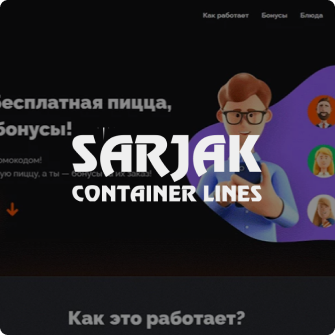
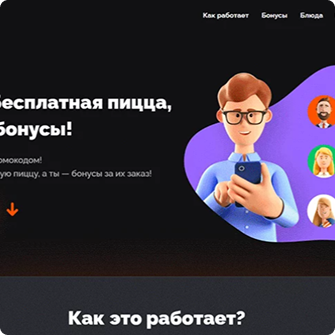
Fix round slider rotation

diff --git a/home/templates/home/home.html b/home/templates/home/home.html
@@ -223,26 +223,31 @@
             </div>
             <div class="case">
                 <img src="{% static 'images/case-example-2.png' %}" alt="">
+                <img class="logo" src="{% static 'images/case-logo-example-2.png' %}" alt="">
             </div>
             <div class="case">
                 <img src="{% static 'images/case-example-3.png' %}" alt="">
+                <img class="logo" src="{% static 'images/case-logo-example-3.png' %}" alt="">
             </div>
             <div class="case">
-                <img src="{% static 'images/case-example-1.png' %}" alt="">
+                <img class="background" src="{% static 'images/case-example-1.png' %}" alt="">
                 <img class="logo" src="{% static 'images/case-logo-example-1.png' %}" alt="">
             </div>
             <div class="case">
                 <img src="{% static 'images/case-example-2.png' %}" alt="">
+                <img class="logo" src="{% static 'images/case-logo-example-2.png' %}" alt="">
             </div>
             <div class="case">
                 <img src="{% static 'images/case-example-3.png' %}" alt="">
+                <img class="logo" src="{% static 'images/case-logo-example-3.png' %}" alt="">
             </div>
             <div class="case">
-                <img src="{% static 'images/case-example-1.png' %}" alt="">
+                <img class="background" src="{% static 'images/case-example-1.png' %}" alt="">
                 <img class="logo" src="{% static 'images/case-logo-example-1.png' %}" alt="">
             </div>
             <div class="case">
                 <img src="{% static 'images/case-example-2.png' %}" alt="">
+                <img class="logo" src="{% static 'images/case-logo-example-2.png' %}" alt="">
             </div>
         </div>
         <div class="all-cases">
@@ -744,6 +749,7 @@
 <script defer>
 document.addEventListener("DOMContentLoaded", function () {
     let rotationAngle = 0; 
+    let currentSlideIndex = 1;
 
     const mainSLider = new Swiper('.rounded-slides.swiper', {
         loop: true, 
@@ -765,11 +771,18 @@ document.addEventListener("DOMContentLoaded", function () {
         },
         on: {
             slideNextTransitionStart: function () {
-                rotationAngle -= 60; 
+                currentSlideIndex++;
+                console.log(`Остаток: ${currentSlideIndex % 6}`)
+
+                const angle = getRotationAngleNext();
+                rotationAngle -= angle; 
                 rotateImage();
             },
             slidePrevTransitionStart: function () {
-                rotationAngle += 60;
+                currentSlideIndex--;
+
+                const angle = getRotationAnglePrev();
+                rotationAngle += angle; 
                 rotateImage();
             }
         }
@@ -780,6 +793,47 @@ document.addEventListener("DOMContentLoaded", function () {
         if (image) {
             image.style.transform = `rotate(${rotationAngle}deg)`;
         }
+    }
+    function getRotationAnglePrev() {
+        const currentSlide = document.querySelector('.rect-slide.swiper-slide.swiper-slide-active');
+        const activeText = currentSlide.querySelector('.rect-slide-heading').textContent;
+        let angle = 60;
+        console.log(activeText)
+        
+        console.log(currentSlideIndex % 6)
+        if (activeText == 'Время') {
+            if (currentSlideIndex % 6 < 3) {
+                angle = 68.5;
+            } else {
+                angle = 64.5;
+            }
+        } else if (activeText == 'Помощь') {
+            angle = 56;
+        } else if (activeText == 'Услуги') {
+            angle = 57.6;
+        }
+        console.log(angle);
+        return angle;
+    }
+    function getRotationAngleNext() {
+        const currentSlide = document.querySelector('.rect-slide.swiper-slide.swiper-slide-next');
+        const activeText = currentSlide.querySelector('.rect-slide-heading').textContent;
+        let angle = 60;
+        console.log(activeText)
+        
+        if (activeText == 'Время') {
+            angle = 56;
+        } else if (activeText == 'Помощь') {
+            angle = 57.6;
+        } else if (activeText == 'Услуги') {
+            if (currentSlideIndex % 6 < 3) {
+                angle = 64.5;
+            } else {
+                angle = 68.5;
+            }
+        }
+        console.log(angle);
+        return angle;
     }
 });
 </script>

diff --git a/static/css/style.css b/static/css/style.css
@@ -291,7 +291,7 @@ header {
     display: flex;
     gap: 10px;
     align-items: center;
-
+    align-items: center;
 }
 
 .header__contacts {
@@ -685,6 +685,8 @@ footer .nav-links p {
     width: calc((100% - 20px * 3) / 4); 
     height: 335px;
     position: relative;
+
+    cursor: pointer;
 }
 .case .background {
     position: absolute; 
@@ -692,13 +694,39 @@ footer .nav-links p {
     top: 0;
     width: 100%;
     height: 100%;
+    background: rgba(45, 46, 51, 0.4);
+}
+.case::after {
+    content: "";
+    position: absolute;
+    left: 0;
+    top: 0;
+    width: 100%;
+    height: 100%;
+    background: rgba(45, 46, 51, 0.4);
+    opacity: 1;
 }
 .case .logo {
     position: absolute; 
     left: 50%;
     top: 50%;
     transform: translateX(-50%) translateY(-50%);
+    opacity: 1;
+    z-index: 5;
 }
+.case,
+.case::after, 
+.case .logo {
+    transition: all 0.4s ease;
+}
+.case:hover .logo {
+    opacity: 0;
+}
+
+.case:hover::after {
+    opacity: 0;
+}
+
 .all-cases {
     display: flex;
     align-items: center;
@@ -727,9 +755,19 @@ footer .nav-links p {
 .client-card {
     position: relative;
     border-radius: 10px;
-    height: 100px;
-    width: calc((1400px - 30px * 7) / 8);
-    background: linear-gradient(45deg, #010314 -5%, #5F32AD 69%, #00FFE7 120%);
+    height: 100px !important;
+    background: linear-gradient(
+        20deg,
+        rgba(1, 3, 20, 0.36) -5%,
+        rgba(95, 50, 173, 0.36) 69%,
+        rgba(0, 255, 231, 0.36) 110%
+    );
+    display: flex;
+    align-items: center;
+    justify-content: center;
+
+    cursor: pointer;
+    transition: all 0.4s ease !important;
 }
 .client-card::after {
     content: '';
@@ -738,10 +776,7 @@ footer .nav-links p {
     left: 0;
     right: 0;
     bottom: 0;
-    /* background: rgba(45, 46, 51, 0.4); */
     pointer-events: none;
-
-    transition: all 0.3s ease;
 }
 .client-card img {
     position: absolute; 
@@ -750,21 +785,52 @@ footer .nav-links p {
     transform: translateX(-50%) translateY(-50%);
 }
 
+.client-card.swiper-slide.swiper-slide-active, 
+.client-card.swiper-slide.swiper-slide-active + .client-card, 
+.client-card.swiper-slide.swiper-slide-active 
+    + .client-card + .client-card 
+    + .client-card + .client-card  
+    + .client-card + .client-card  
+    + .client-card + .client-card 
+    + .client-card + .client-card  
+    + .client-card + .client-card  
+    + .client-card + .client-card, 
+.client-card.swiper-slide.swiper-slide-active 
+    + .client-card + .client-card 
+    + .client-card + .client-card  
+    + .client-card + .client-card  
+    + .client-card + .client-card 
+    + .client-card + .client-card  
+    + .client-card + .client-card  
+    + .client-card + .client-card 
+    + .client-card {
+    opacity: 0.38;
+}
 
+.client-card.swiper-slide.swiper-slide-next, 
+.client-card.swiper-slide.swiper-slide-next + .client-card, 
+.client-card.swiper-slide.swiper-slide-next 
+    + .client-card + .client-card 
+    + .client-card + .client-card  
+    + .client-card + .client-card  
+    + .client-card + .client-card 
+    + .client-card + .client-card, 
+.client-card.swiper-slide.swiper-slide-next 
+    + .client-card + .client-card 
+    + .client-card + .client-card  
+    + .client-card + .client-card  
+    + .client-card + .client-card 
+    + .client-card + .client-card  
+    + .client-card {
+    opacity: 0.8;
+}
+.client-card:hover {
+    opacity: 1 !important;
+}
 .clients-cards {
     width: 100%;
     height: 250px; 
     margin-top: 30px;
-}
-
-.client-card {
-    position: relative;
-    border-radius: 10px;
-    height: 100px !important;
-    background: linear-gradient(45deg, #010314 -5%, #5F32AD 69%, #00FFE7 120%);
-    display: flex;
-    align-items: center;
-    justify-content: center;
 }
 .reviews__section {
     display: flex;
@@ -846,7 +912,6 @@ footer .nav-links p {
 }
 .company-name {
     font-size: 40px;
-    font-weight: bold;
     font-family: var(--font-special);
 }
 .company-stars {

diff --git a/templates/base.html b/templates/base.html
@@ -154,7 +154,7 @@
 {% endblock script %}
 
 
-<script defer>
+<!-- <script defer>
     let cont = $('.preloader-heading'),
 	text = 'FIRST IT COMPANY';
 	p = 0;
@@ -190,20 +190,20 @@
     document.addEventListener('DOMContentLoaded', () => {
         setTimeout(() => printSmbl(onPrintComplete), 800);
     });
-</script>
+</script> -->
 
 
 <!-- Для тестов -->
-<!-- <script>
+<script>
     document.querySelector('.preloader-heading.top').classList.add('active');
-            document.querySelector('.preloader-heading.bottom').classList.add('active');
-            document.querySelector('.bottom-divider').classList.add('active');
+    document.querySelector('.preloader-heading.bottom').classList.add('active');
+    document.querySelector('.preloader-bottom-divider').classList.add('active');
 
-            document.querySelector('header').classList.add('active');
-            document.querySelector('footer').classList.add('active');
-            document.querySelector('.preloader').classList.add('active');
-            document.querySelector('main').classList.add('active');
-</script> -->
+    document.querySelector('header').classList.add('active');
+    document.querySelector('footer').classList.add('active');
+    document.querySelector('.preloader').classList.add('active');
+    document.querySelector('main').classList.add('active');
+</script>
 
 
 </html>
